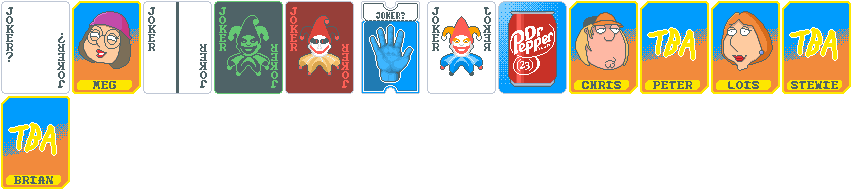
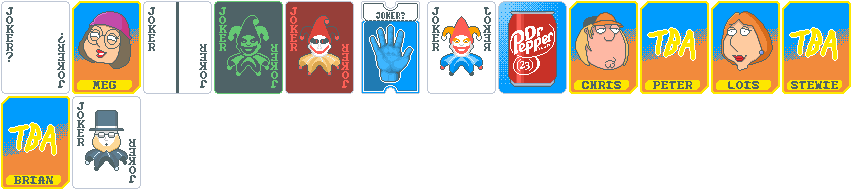
More Jokers n stuff

Changed region(s): [[0.0915, 0.5526, 0.1831, 0.9737], [0.0915, 0.9737, 0.1526, 1.0], [0.0915, 0.5, 0.1526, 0.5263]]

diff --git a/README.md b/README.md
@@ -20,6 +20,10 @@ Straight Line
 Misplaced
 * Gain +1 hand per round
 
+### Rare
+Photographer
+* Gains bonus chips according to the base chip value of a scored card
+
 ### Family Guy
 Lois Griffin
 * Earn $15 when the round ends
